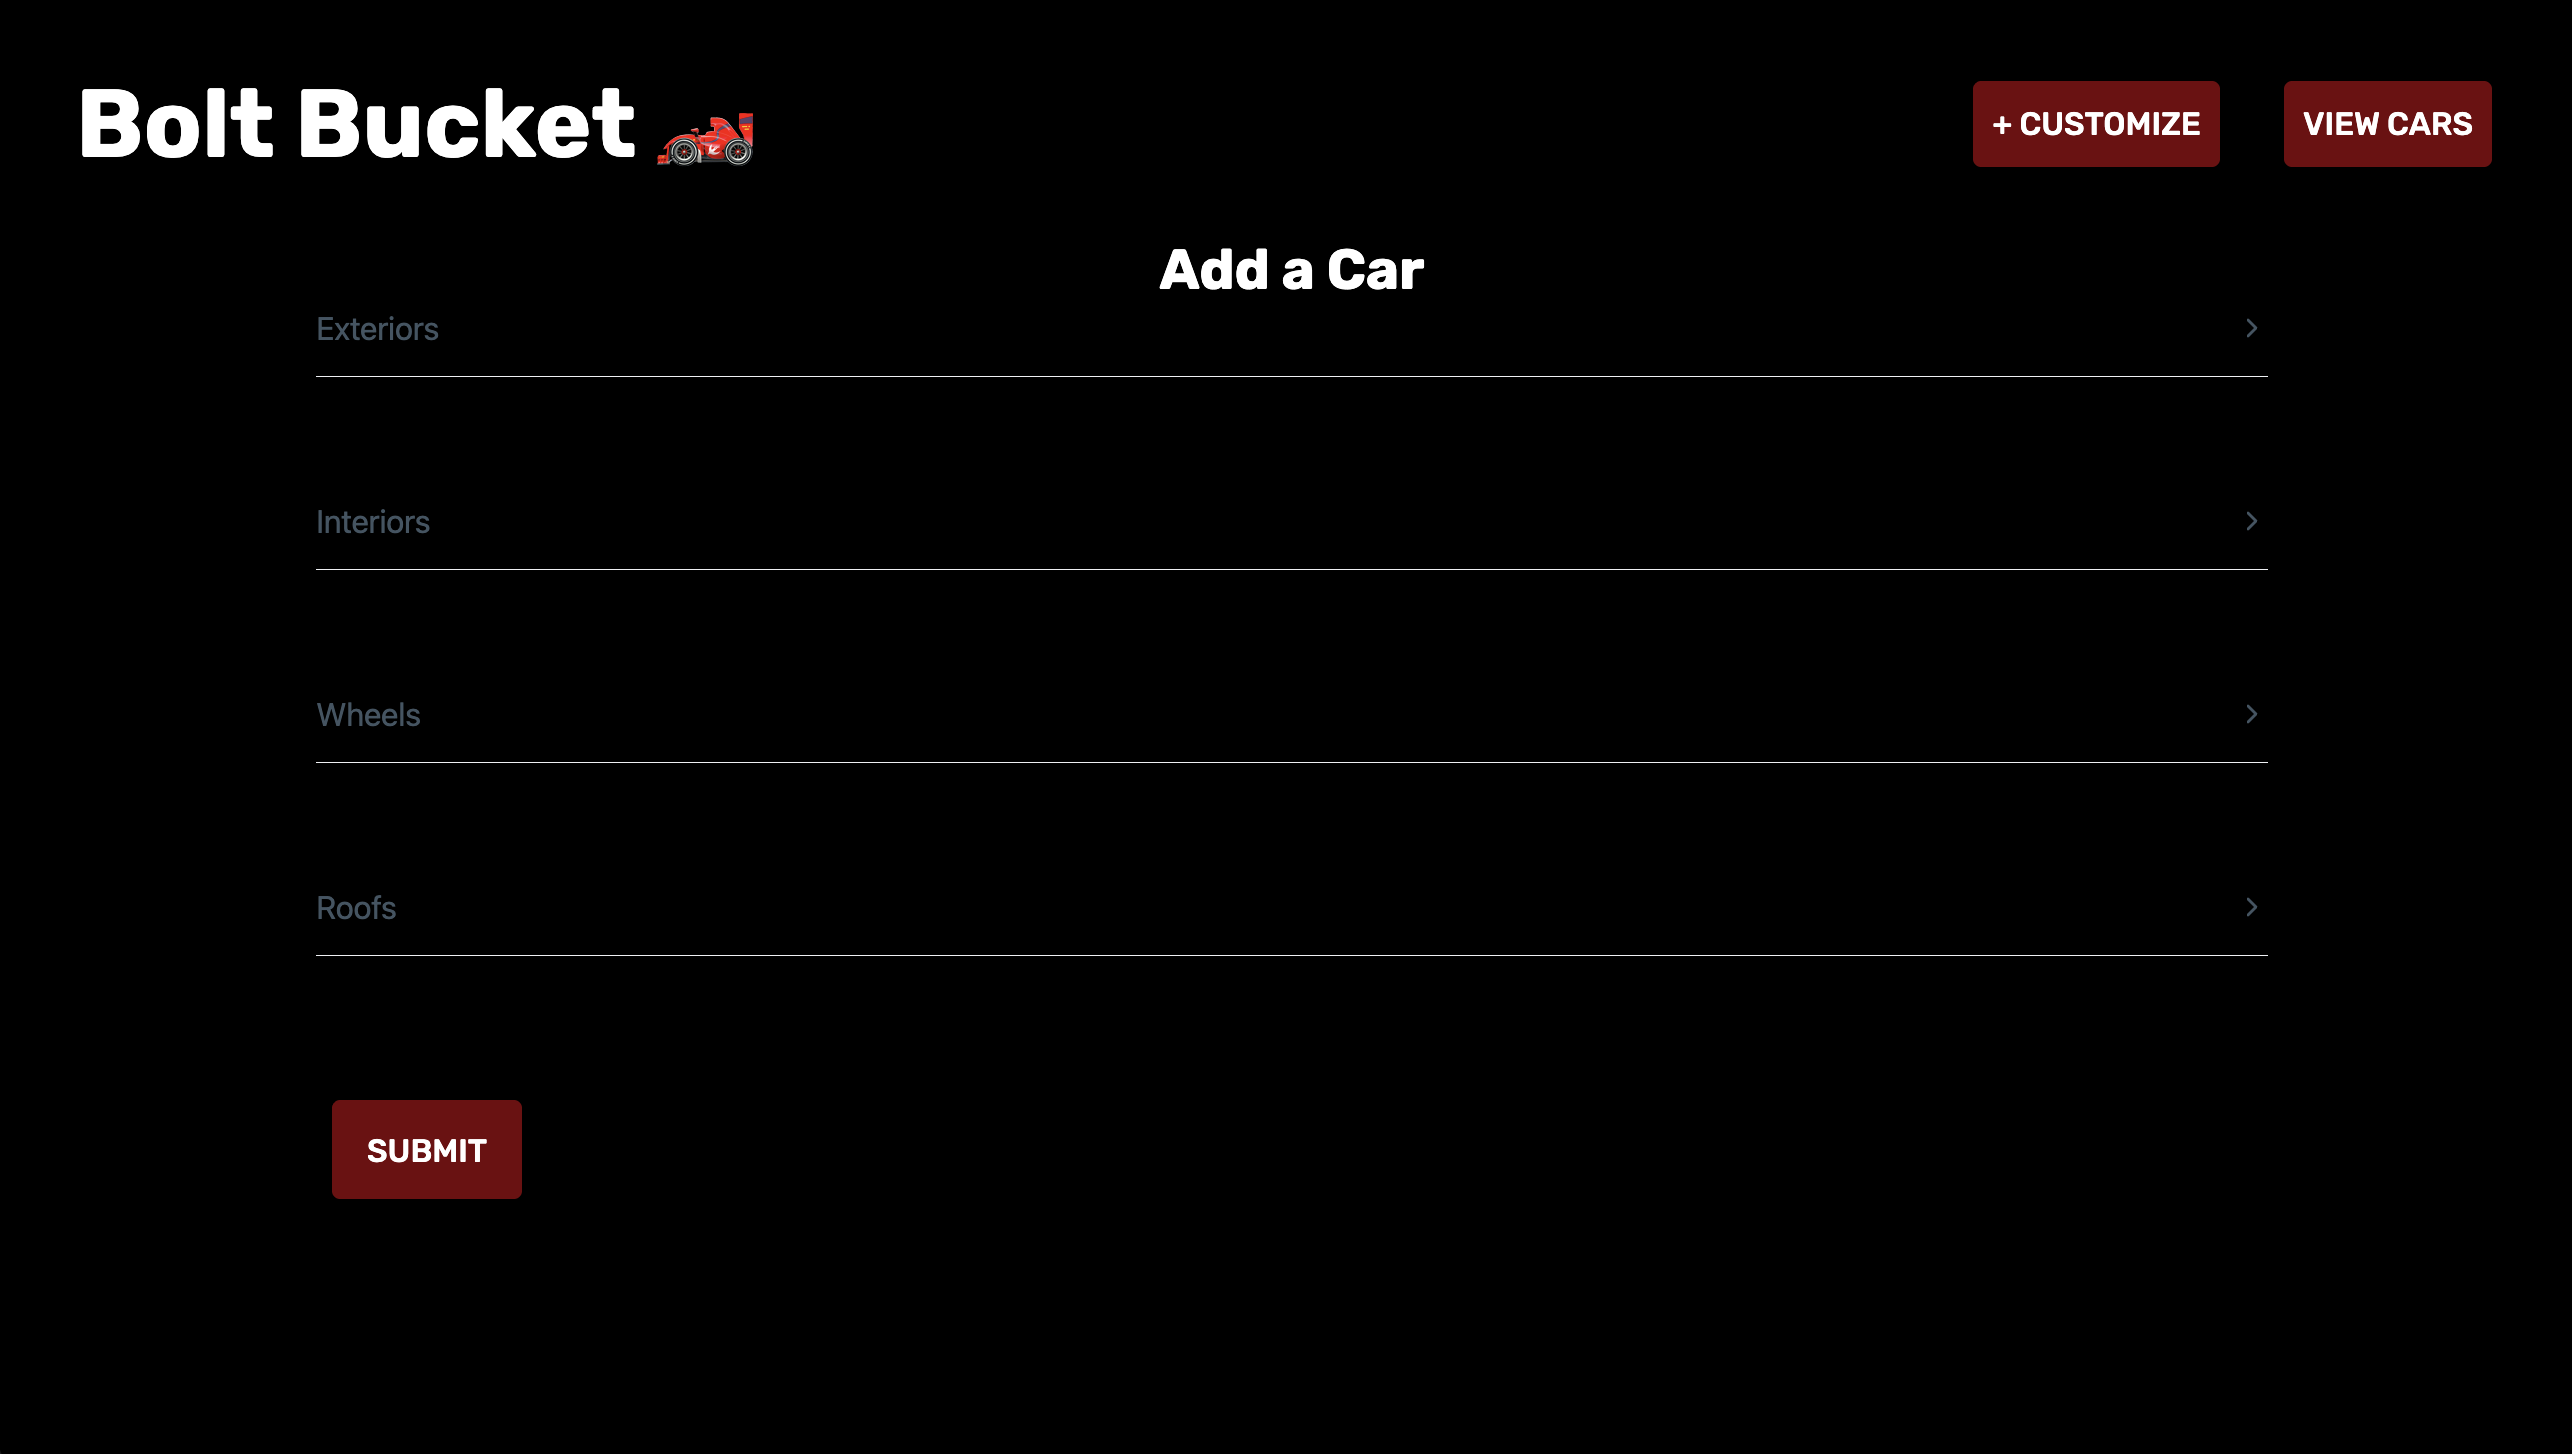
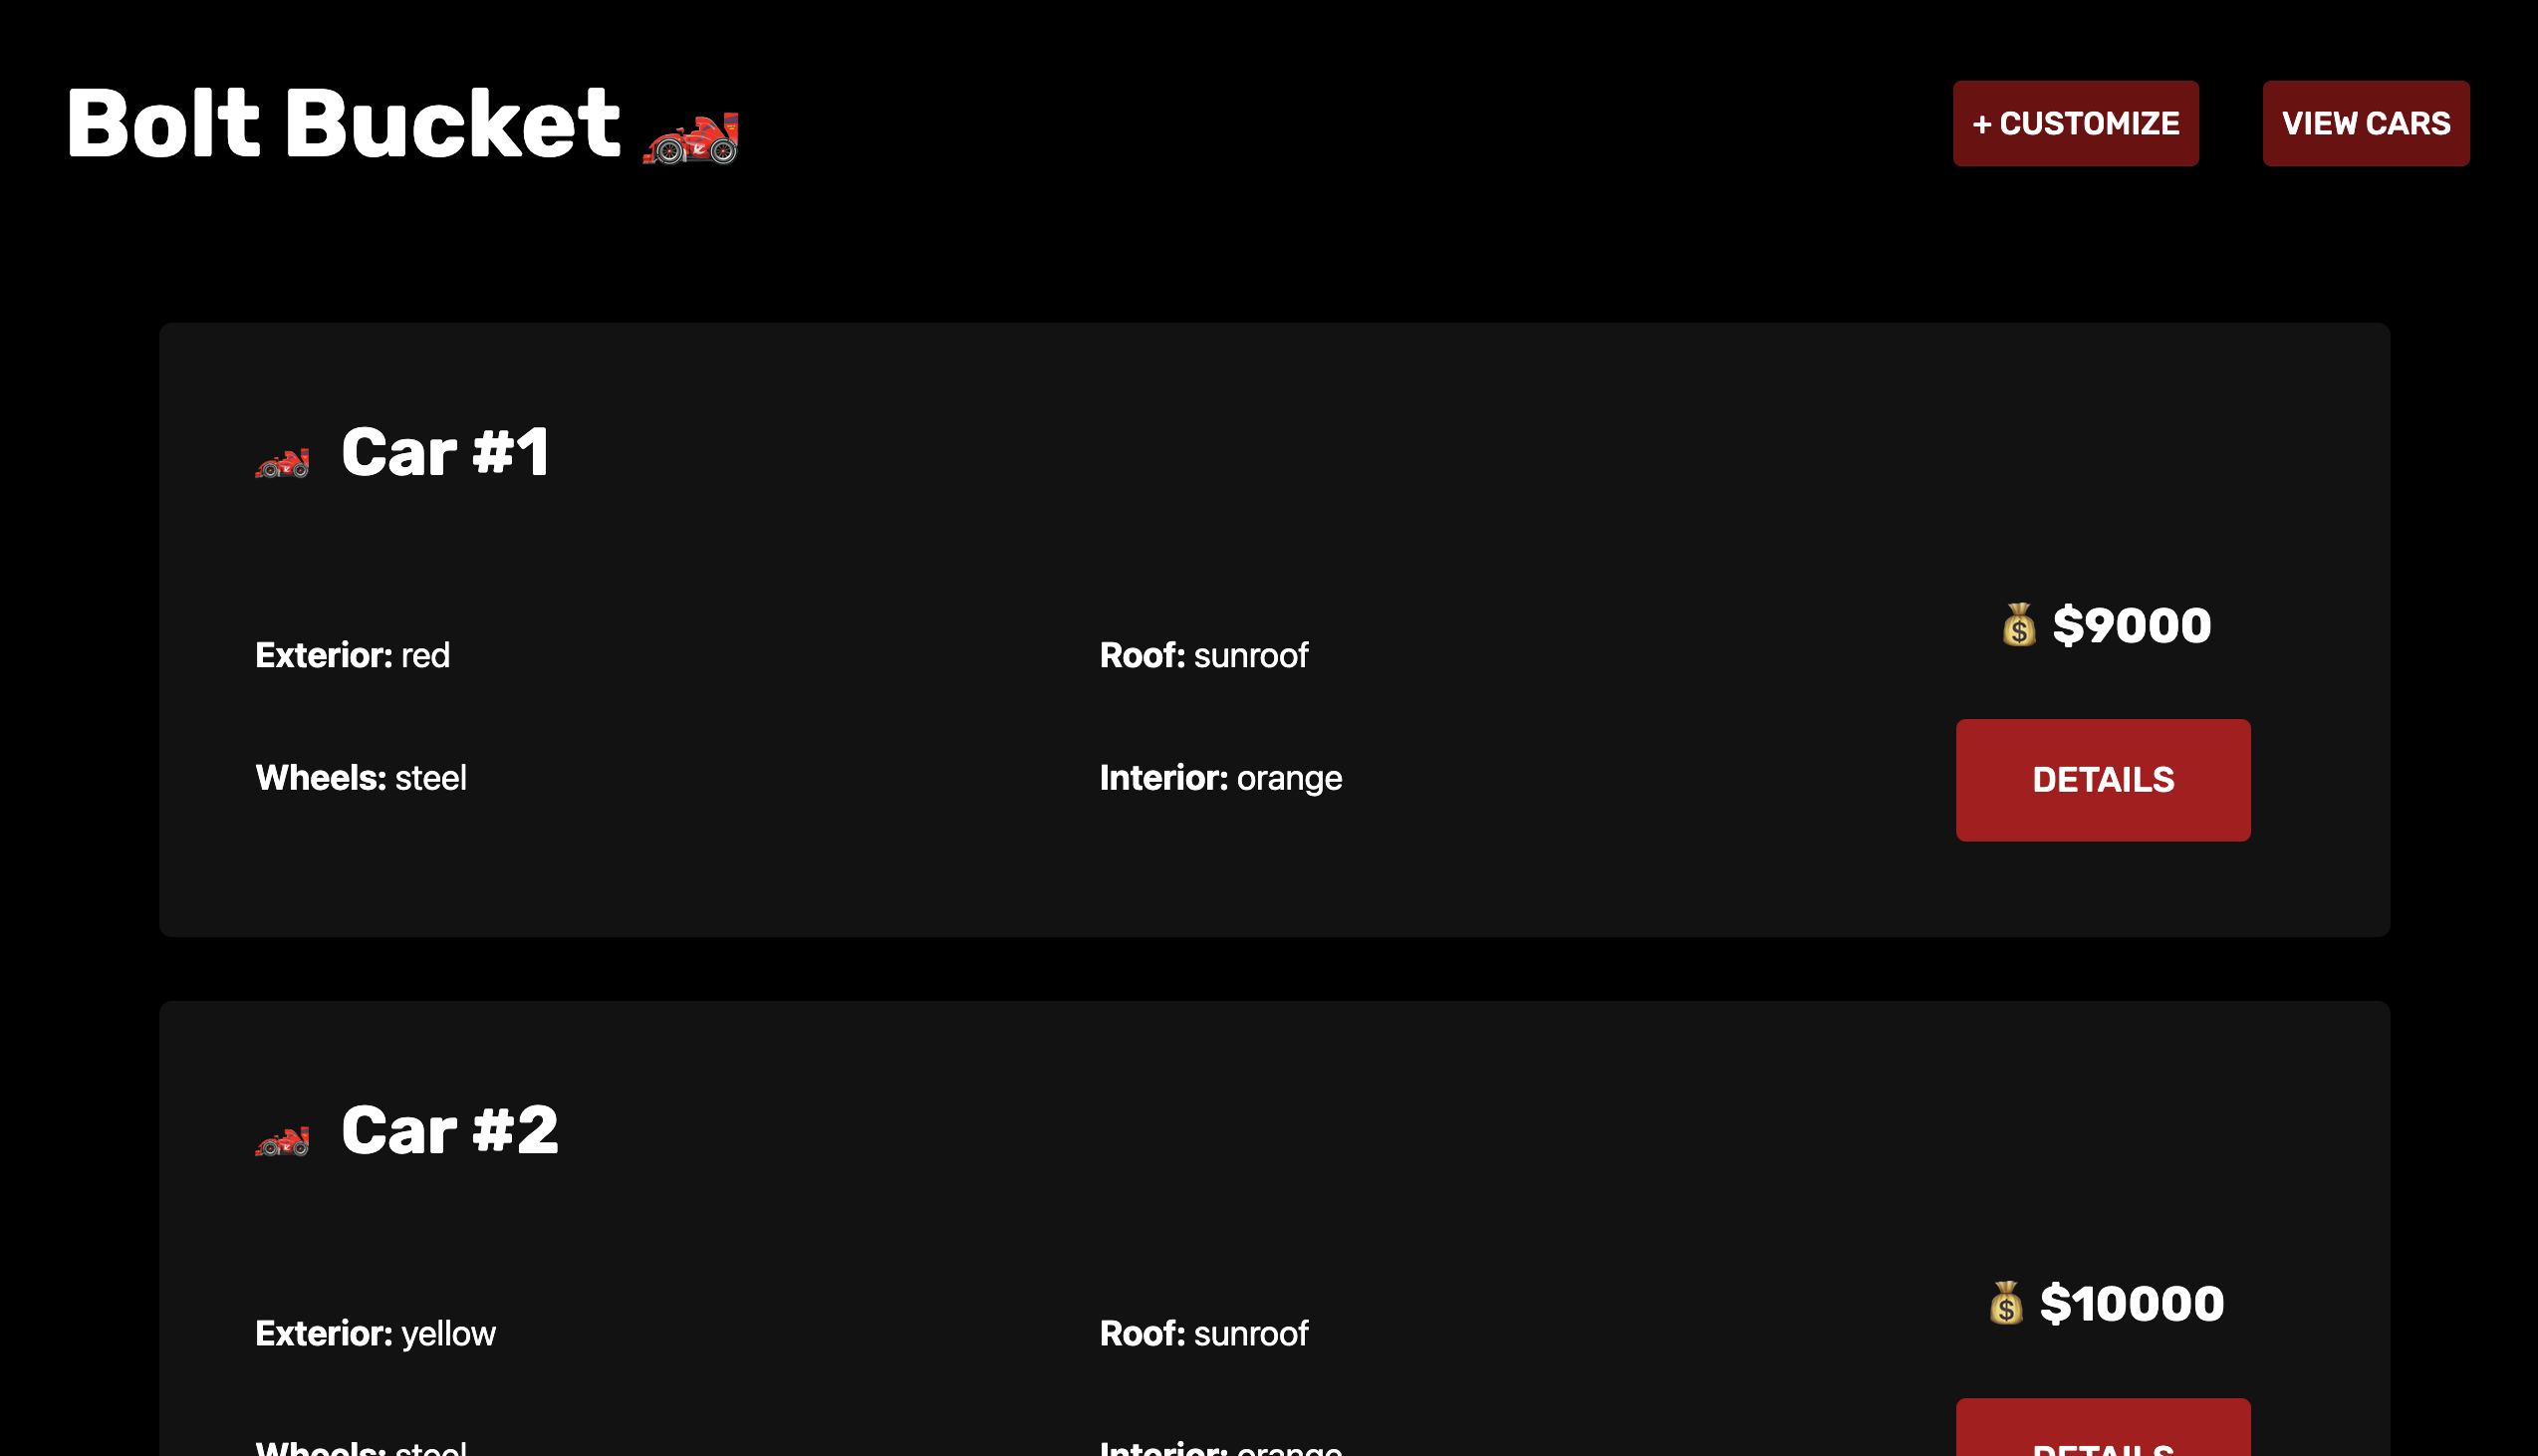
feat: change from edit to details button on view page
- Updated README.md as well

diff --git a/client/src/pages/ViewCars.jsx b/client/src/pages/ViewCars.jsx
@@ -79,9 +79,9 @@ const ViewCars = () => {
                         <div className="car-price-section">
                             <h3>💰 ${totalPrice}</h3>
 
-                            <Link to={`/edit/${car.id}`}>
-                            <button className="edit-button" type="button">
-                                EDIT
+                            <Link to={`/customcars/${car.id}`}>
+                            <button className="details-button" type="button">
+                                DETAILS
                             </button>
                             </Link>
                         </div>

diff --git a/client/src/css/ViewCars.css b/client/src/css/ViewCars.css
@@ -86,7 +86,7 @@
   margin: 0;
 }
 
-.edit-button {
+.details-button {
   background-color: #b00013;
   color: white;
 
@@ -102,7 +102,7 @@
   transition: background-color 0.2s ease, transform 0.2s ease;
 }
 
-.edit-button:hover {
+.details-button:hover {
   background-color: #d00018;
   transform: scale(1.03);
 }

diff --git a/client/src/pages/CreateCar.jsx b/client/src/pages/CreateCar.jsx
@@ -1,7 +1,6 @@
 import React, { useEffect } from 'react'
 import '../App.css'
 import { useState } from 'react'
-// import { useNavigate } from 'react-router'
 import '../css/CreateCar.css'
 
 const CreateCar = () => {
@@ -55,7 +54,6 @@ const CreateCar = () => {
             console.log('Response:', data)
 
             if (!response.ok) {
-                // throw new Error(data.err || 'Failed to create car')
                 const data = await response.json()
                 setError(data.err || 'Error creating car.')
             }

diff --git a/client/src/pages/CarDetails.jsx b/client/src/pages/CarDetails.jsx
@@ -1,5 +1,6 @@
 import React from 'react'
 import '../App.css'
+import '../css/CarDetails.css'
 
 const CarDetails = () => {
 

diff --git a/README.md b/README.md
@@ -4,7 +4,7 @@ Submitted by: **Kaylie Chang**
 
 About this web app: **Make your own custom cars with this website and store them in a list!**
 
-Time spent: **5** hours
+Time spent: **6** hours
 
 ## Required Features
 
@@ -39,7 +39,7 @@ The following **additional** features are implemented:
 
 Here's a walkthrough of implemented required features:
 
-<a href="https://www.youtube.com/watch?v=-DTA6NeHomc">
+<a href="https://www.youtube.com/watch?v=gsRHvT1C0iU">
   <img style="max-width:300px;" src="client/src/assets/thumbnail.png" alt="CodePath Week 4 Walkthrough - WEB103 (Custom Car)">
 </a>
 